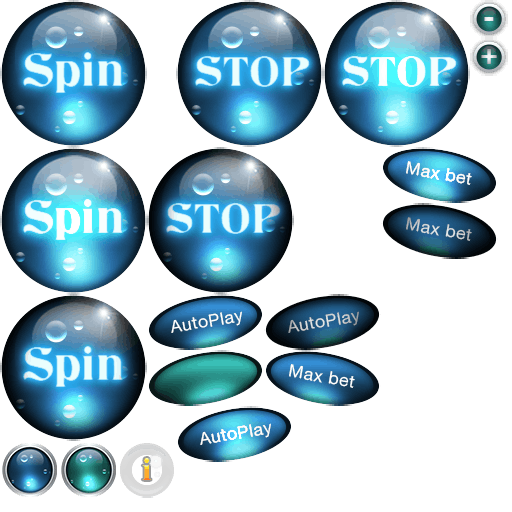
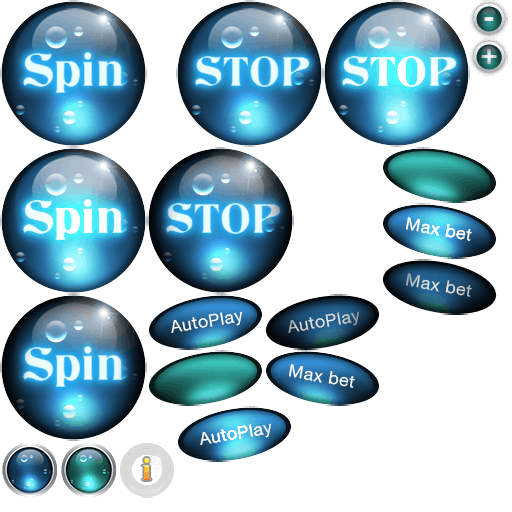
New close button for max bet

Changed region(s): [[0.75, 0.2812, 0.9688, 0.625]]

diff --git a/markup/modules/Panel/PanelView.js b/markup/modules/Panel/PanelView.js
@@ -366,8 +366,7 @@ export let view = (() => {
         settingsButton.alpha = 0.5;
 
         let maxBetButtonDesk = model.el('maxBetButtonDesk');
-        maxBetButtonDesk.frameName = 'autoClose.png';
-        maxBetButtonDesk.width = -maxBetButtonDesk.width;
+        maxBetButtonDesk.frameName = 'maxBetClose.png';
         maxBetButtonDesk.freezeFrames = true;
 
         let betLevelPlus = model.el('betLevelPlus');
@@ -414,7 +413,6 @@ export let view = (() => {
 
         let maxBetButtonDesk = model.el('maxBetButtonDesk');
         maxBetButtonDesk.frameName = 'maxBet.png';
-        maxBetButtonDesk.width = -maxBetButtonDesk.width;
         maxBetButtonDesk.freezeFrames = false;
 
         let betLevelPlus = model.el('betLevelPlus');

diff --git a/markup/modules/States/Preload/PreloadController.js b/markup/modules/States/Preload/PreloadController.js
@@ -108,7 +108,7 @@ export class Preload {
         if (model.desktop) {
             game.load.image('panelBG', 'game/panelBG.png');
             game.load.atlasJSONArray('deskButtons', 'desk_buttons/deskButtons.png', 'desk_buttons/deskButtons.json');
-            game.load.image('autoSelect', 'desk_buttons/autoSelect.png');
+            // game.load.image('autoSelect', 'desk_buttons/autoSelect.png');
         }
         if (model.mobile) {
             game.load.atlasJSONArray('mobileButtons', 'mobile_buttons/mobileButtons.png', 'mobile_buttons/mobileButtons.json');
